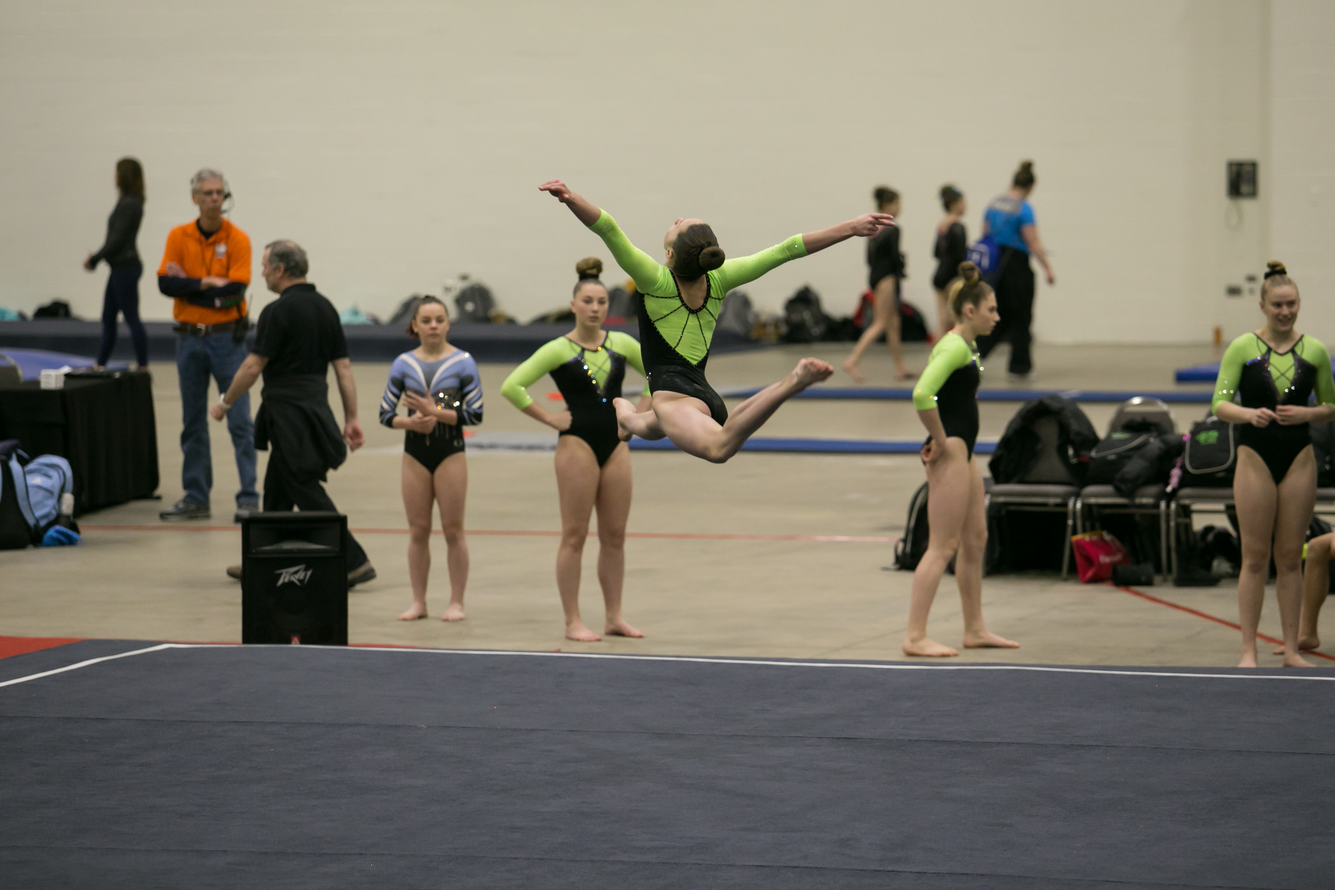
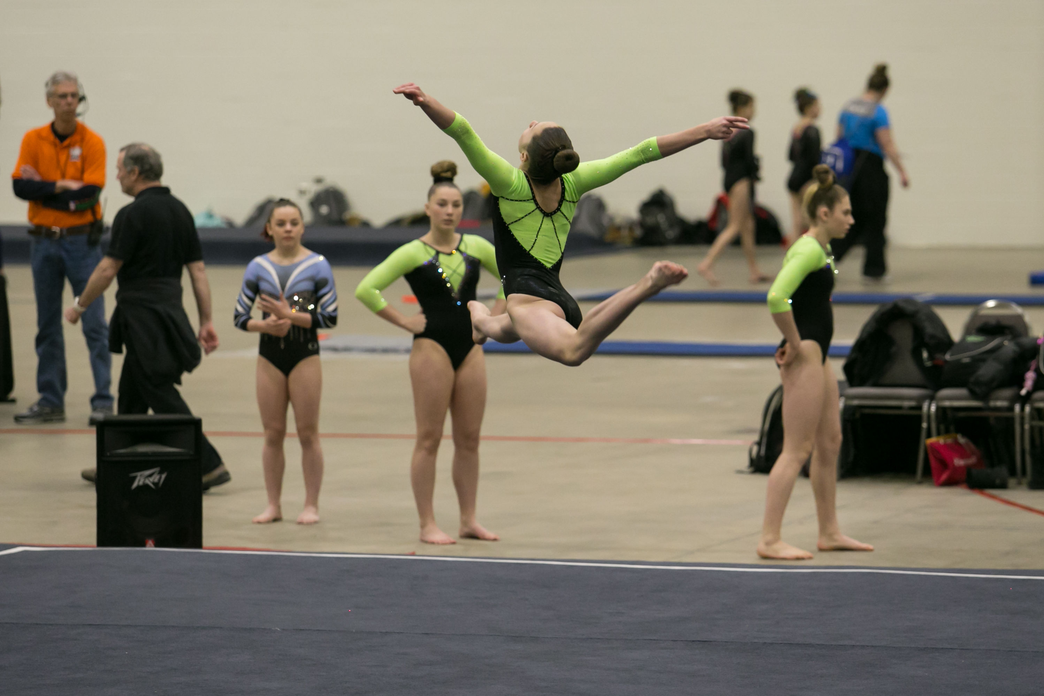
optimized pictures for web, dropdown for web

diff --git a/client/src/app/app.component.html b/client/src/app/app.component.html
@@ -26,16 +26,16 @@
     <li class="nav-item">
       <a class="nav-link header" href="#" routerLink="">HOME</a>
     </li>
-    <li class="nav-item dropdown header" dropdown triggers="hover">
-      <a dropdownToggle role="button" class="nav-link ">ABOUT US</a>
-      <ul *dropdownMenu class="dropdown-menu list-item">
+    <li class="nav-item dropdown header" dropdown [autoClose]="true" triggers="hover">
+      <a dropdownToggle role="button" class="nav-link">ABOUT US</a>
+      <ul *dropdownMenu class="dropdown-menu list-item" >
         <li><a class="nav-link list-item" href="#" routerLink="about">ABOUT EDGE</a></li>
         <li><a class="nav-link list-item" href="#" routerLink="employment">EMPLOYMENT</a></li>
         <li><a class="nav-link list-item" href="#" routerLink="coaches">MEET THE STAFF</a></li>
         <li><a class="nav-link list-item" href="#" routerLink="faq">FAQ</a></li>
       </ul>
     </li>
-    <li class="nav-item dropdown header" dropdown triggers="hover">
+    <li class="nav-item dropdown header" dropdown [autoClose]="true" triggers="hover">
         <a dropdownToggle role="button" href="#" class="nav-link" routerLink="classes">CLASS SCHEDULES</a>
         <ul *dropdownMenu class="dropdown-menu list-item"> 
           <li><a class="nav-link list-item" href="./assets/GirlsAcademyClassSchedule2018OnePage.pdf">GIRLS ACADEMY</a></li>   
@@ -46,7 +46,7 @@
          </ul>
       </li>
     
-        <li class="nav-item dropdown header" dropdown triggers="hover">
+        <li class="nav-item dropdown header" dropdown [autoClose]="true" triggers="hover">
             <a dropdownToggle role="button" class="nav-link ">CAMPS + EVENTS</a>
             <ul *dropdownMenu class="dropdown-menu list-item">
               <li><a class="nav-link list-item" href="./assets/SummerCampBrochure2018.pdf">CAMPS</a></li>
@@ -60,7 +60,7 @@
     <li class="nav-item">
       <a class="nav-link header" href="#" routerLink="calendar">CALENDAR</a>
     </li>
-    <li class="nav-item dropdown header" dropdown triggers="hover">
+    <li class="nav-item dropdown header" dropdown [autoClose]="true" triggers="hover">
         <a dropdownToggle role="button" class="nav-link">TEAM</a>
         <ul *dropdownMenu class="dropdown-menu list-item">
           <li><a class="nav-link list-item" href="#" routerLink="pre-competitive">PRE-COMPETITIVE</a></li>          

diff --git a/client/src/app/components/opengym/opengym.component.html b/client/src/app/components/opengym/opengym.component.html
@@ -13,20 +13,30 @@
             
             SUMMER OPEN GYM SCHEDULE<br>
             Begins on June 11, 2018<br>
+            Ends on August 18, 2018<br><br>
+            
             AGES 5 & UNDER<br>
-            Thurs. 2:30 - 3:30<br>
-            Fri. 9:00 - 10:00<br>
-            *2nd & 4th Sat. of the month 12:30 - 1:30<br>
-            *Subject to change<br>
-            $6-members / $8-non-members<br><br>
+            Thurs. 2:30pm - 3:30pm<br>
+            Fri. 9:00am - 10:00am<br>
+            *2nd & 4th Sat. of the month 12:30pm - 1:30pm<br>
+            *Subject to change<br><br>
+            
             
             AGES 6 YEARS - 17 YEARS<br>
-            Fri. 7:00-8:30pm<br>
-            $12-members / $15-non-members<br>
-            *1st & 3rd Sat. of the month 12:30pm-1:30pm<br>
-            *Subject to change<br>
-            $10-members / $12-non-members<br>
-            SPACE IS LIMITED!
+            Fri. 7:00pm - 8:30pm<br>
+            *1st & 3rd Sat. of the month 12:30pm - 1:30pm<br>
+            *Subject to change<br><br>
+            
+            FALL OPEN GYM SCHEDULE <br>
+            Begins on August 20, 2018 <br><br>
+            
+            5 & UNDER <br>
+            Tuesday 11:00 am – 12:00 pm<br> 
+            Friday 11:00 am – 12:00 pm <br>
+            *1st Saturday of the month <br>
+            *Subject to change; check calendar<br><br> 
+            
+            SPACE IS LIMITED!<br>
           </div><br>
           </div>
         <div class="col-sm">

diff --git a/client/src/app/components/coaches/coaches.component.html b/client/src/app/components/coaches/coaches.component.html
@@ -51,7 +51,7 @@
                 <img src=".\assets\A_GabbyDalton1.jpg" alt="Name" style="width:12em;"><br><p>Gabby Dalton works at the front office of Edge. She graduated from Chico State May of 2017 with her Bachelors in Communication Sciences and Disorders. She is currently attending Graduate School and is pursuing her Masters in Counseling Psychology. In Gabby’s spare time she loves to hang out with her family and friends, hike, and travel. Feel free to come say hi to Gabby, she loves meeting everybody!<br><br> <a href="mailto:info@edge-gymnastics.com">Contact Gabby</a></p>
               </div>
               <div class="column">
-                <img src=".\assets\A_Wendy1.jpg" alt="Name" style="width:12em;"><br><p>Wendy<br><br> <a href="mailto:info@edge-gymnastics.com">Contact Wendy</a></p>
+                <img src=".\assets\A_Wendy1.jpg" alt="Name" style="width:12em;"><br><p>Wendy Au<br><br> <a href="mailto:info@edge-gymnastics.com">Contact Wendy</a></p>
               </div>
             </div>
        

diff --git a/client/src/app/app.component.css b/client/src/app/app.component.css
@@ -93,7 +93,8 @@ footer {
 .dropdown-menu {
     display: none;
 }
-.dropdown:hover .dropdown-menu {display: block;}
+.dropdown:hover .dropdown-menu{display: block;}
+
 
 a {
     color: white;
@@ -106,3 +107,8 @@ a:hover{
 ul {
     margin: 0px;
 }
+
+.hover {
+    -webkit-user-select: none;
+    -webkit-touch-callout: none;        
+    }

diff --git a/client/src/app/app.component.ts b/client/src/app/app.component.ts
@@ -1,5 +1,6 @@
 import { Component } from '@angular/core';
 
+
 @Component({
   selector: 'app-root',
   templateUrl: './app.component.html',
@@ -7,6 +8,13 @@ import { Component } from '@angular/core';
 })
 export class AppComponent {
   title = 'app';
+  isCollapsed = false;
 
+
+
+
+  public ngOnInit(){
+
+  }
   
 }
